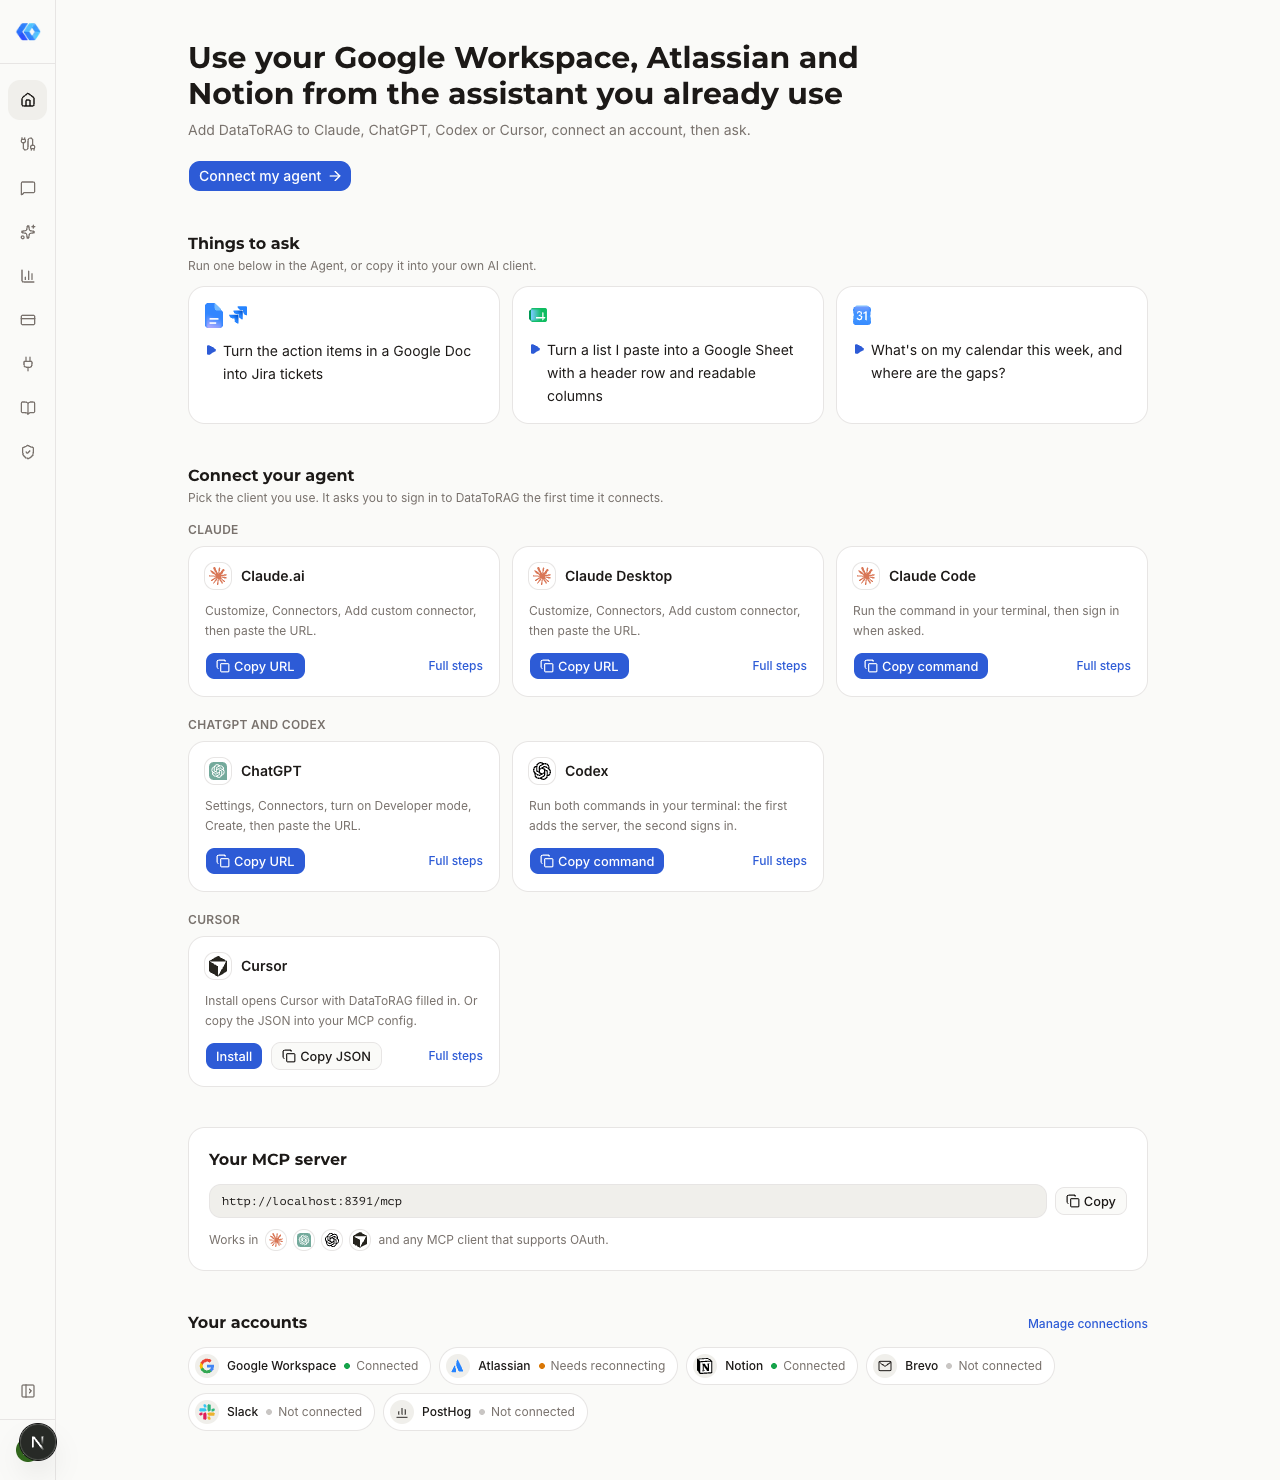
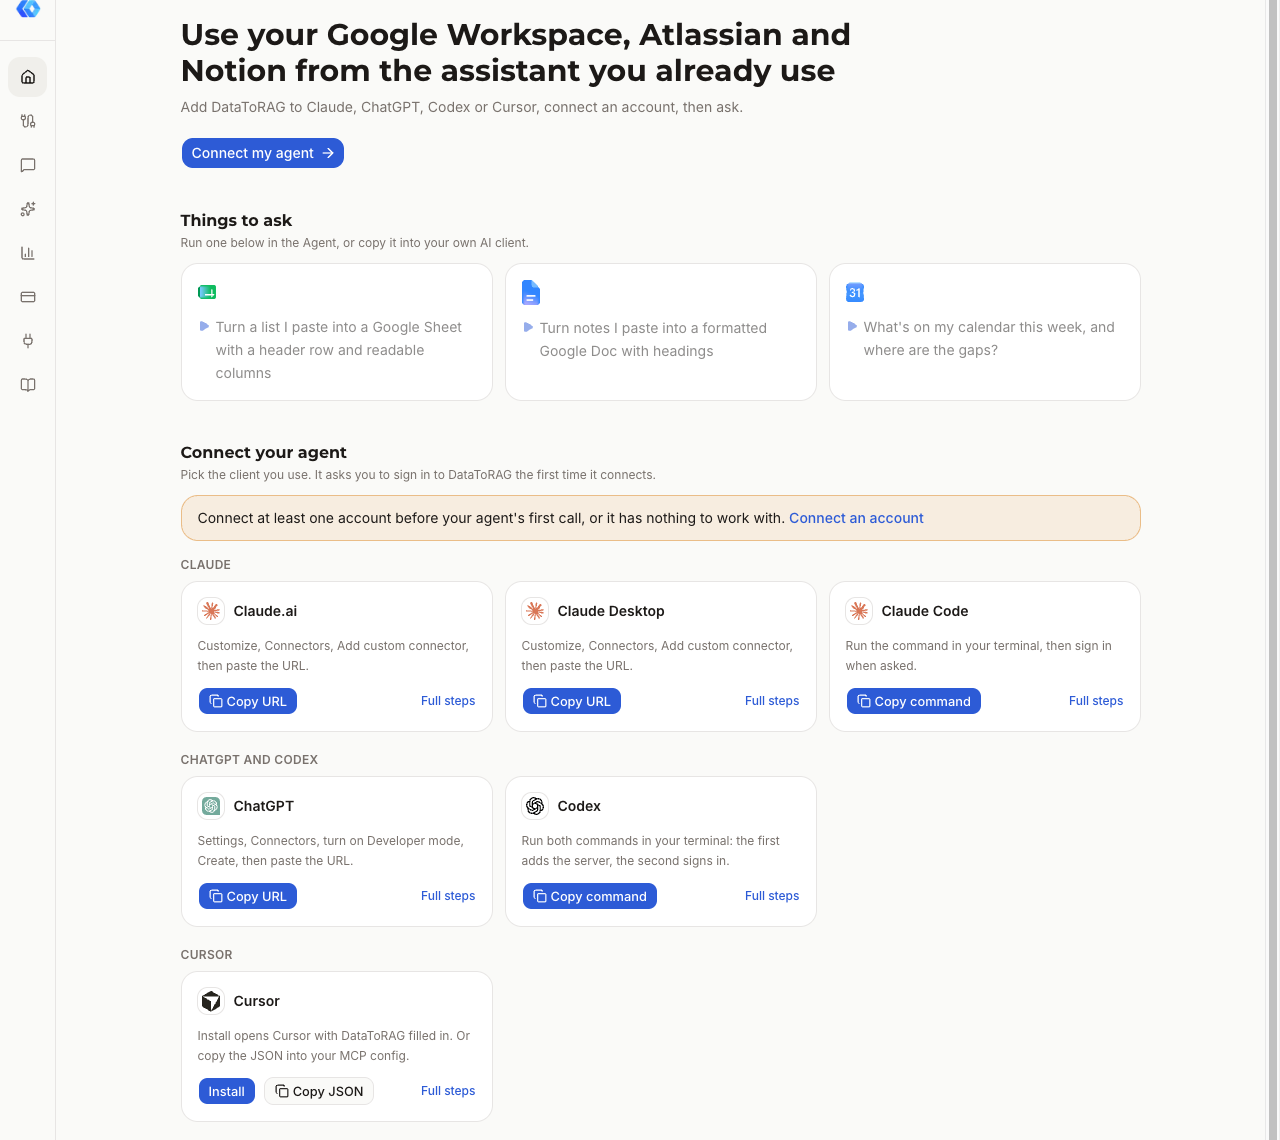
blog: the read-the-tools post, corrected cover, inline image and claims
The cover's curl carries the accept header the endpoint requires, the
inline image is the empty-state home with nothing environment-specific,
the catalogue line names the built-in tools, and the lazy-authentication
guidance is linked.

diff --git a/apps/gateway/content/blog/read-the-tools-before-you-sign-in.md b/apps/gateway/content/blog/read-the-tools-before-you-sign-in.md
@@ -45,9 +45,11 @@ tool call, batches, and the event stream. An unauthenticated handshake creates n
 nothing is metered.
 
 The open methods are rate-limited per address. The list they return is the same snapshot the
-site's tool pages are built from, so there is no second catalogue to drift.
+site's tool pages are built from, plus the gateway's built-in tools, so there is no second
+catalogue to drift.
 
-This is the shape the MCP spec allows and the one Anthropic's own connector guidance describes:
+This is the shape the MCP spec allows and the one [Anthropic's connector guidance on lazy
+authentication](https://claude.com/docs/connectors/building/lazy-authentication) describes:
 discovery open, the gate on the call. We should have shipped it earlier.
 
 ## What we watch
@@ -72,7 +74,7 @@ with the exact setup for that client. The server URL with a copy button. The exa
 tagged with the services they use. One chip per provider showing what is connected. The
 connection cards moved to their own page.
 
-![The new dashboard home: client cards for Claude, ChatGPT, Codex and Cursor, the MCP server URL, and the account chips](/blog/read-the-tools-before-you-sign-in-2.png)
+![The new dashboard home for a fresh account: the headline, three example prompts, and client cards for Claude, ChatGPT, Codex and Cursor](/blog/read-the-tools-before-you-sign-in-2.png)
 
 If you tried DataToRAG before and stopped at the sign-in, the tool list is one request away now,
 no account needed.
